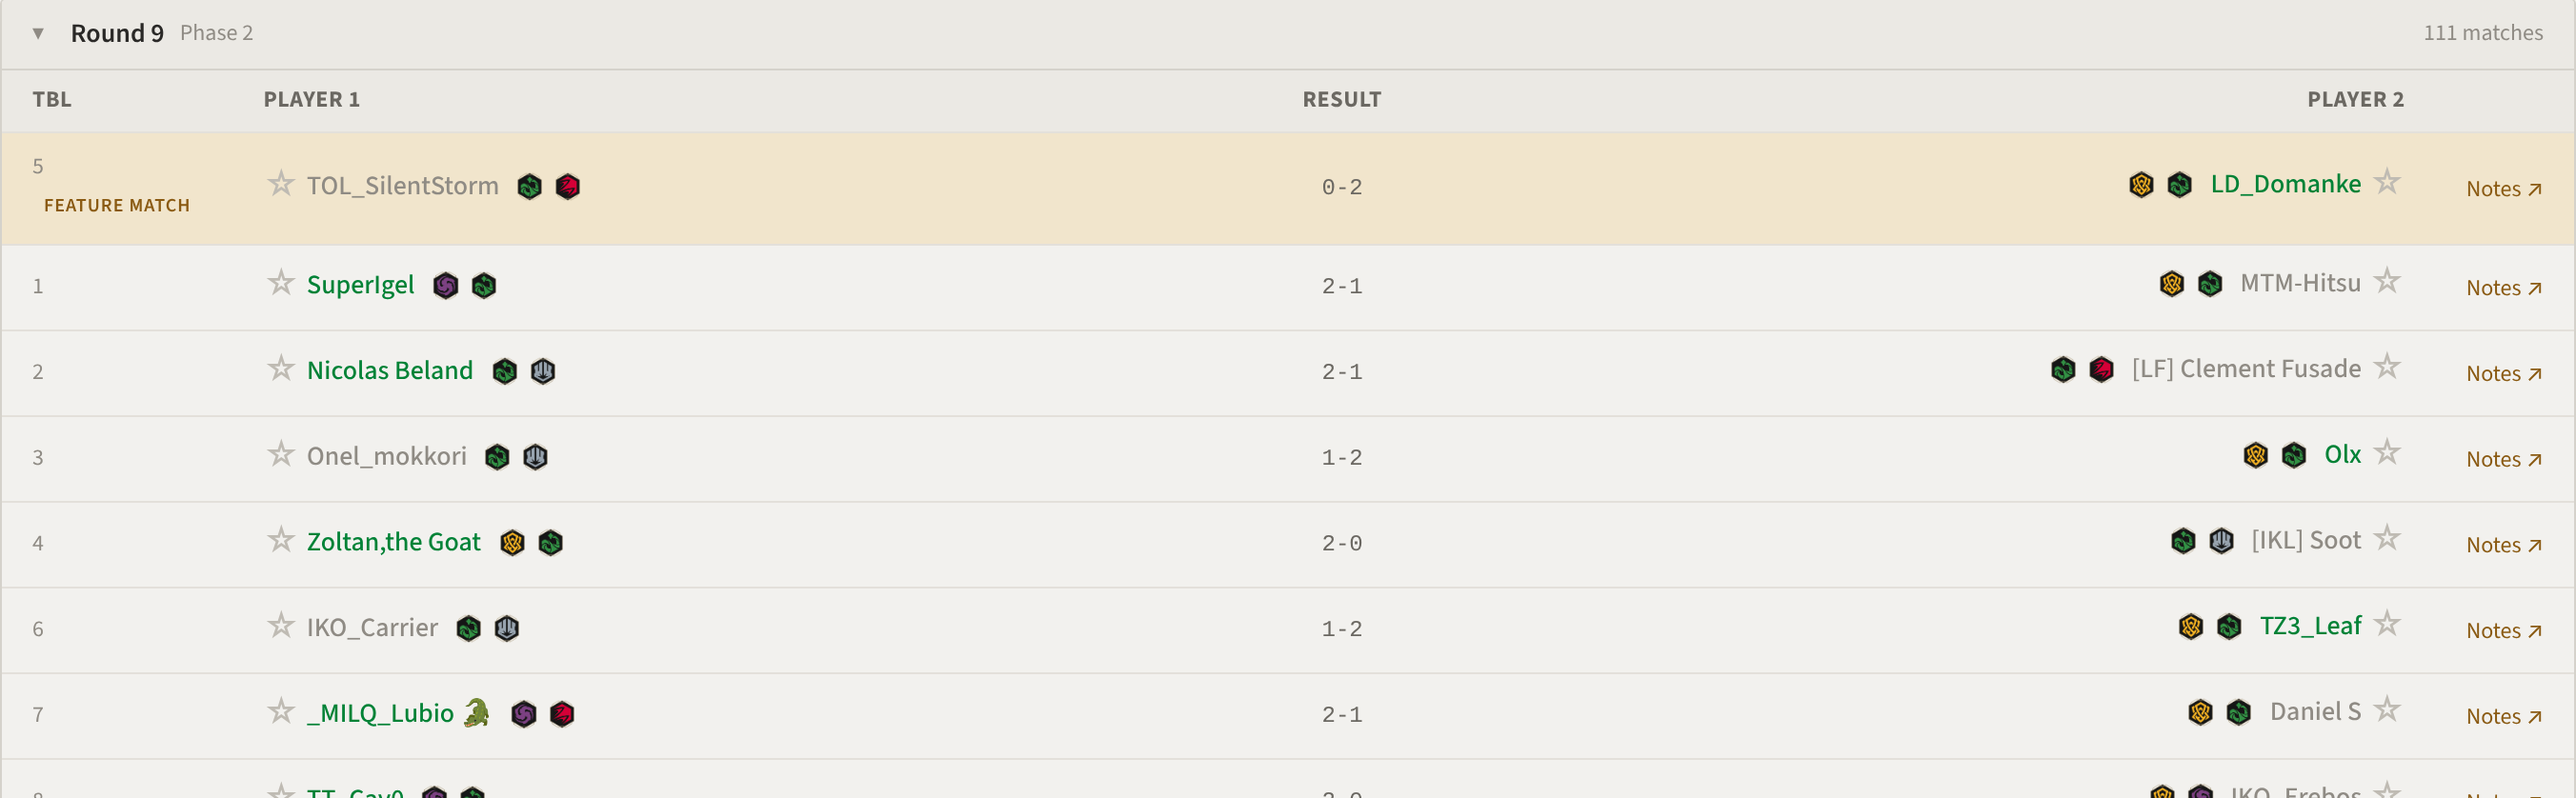
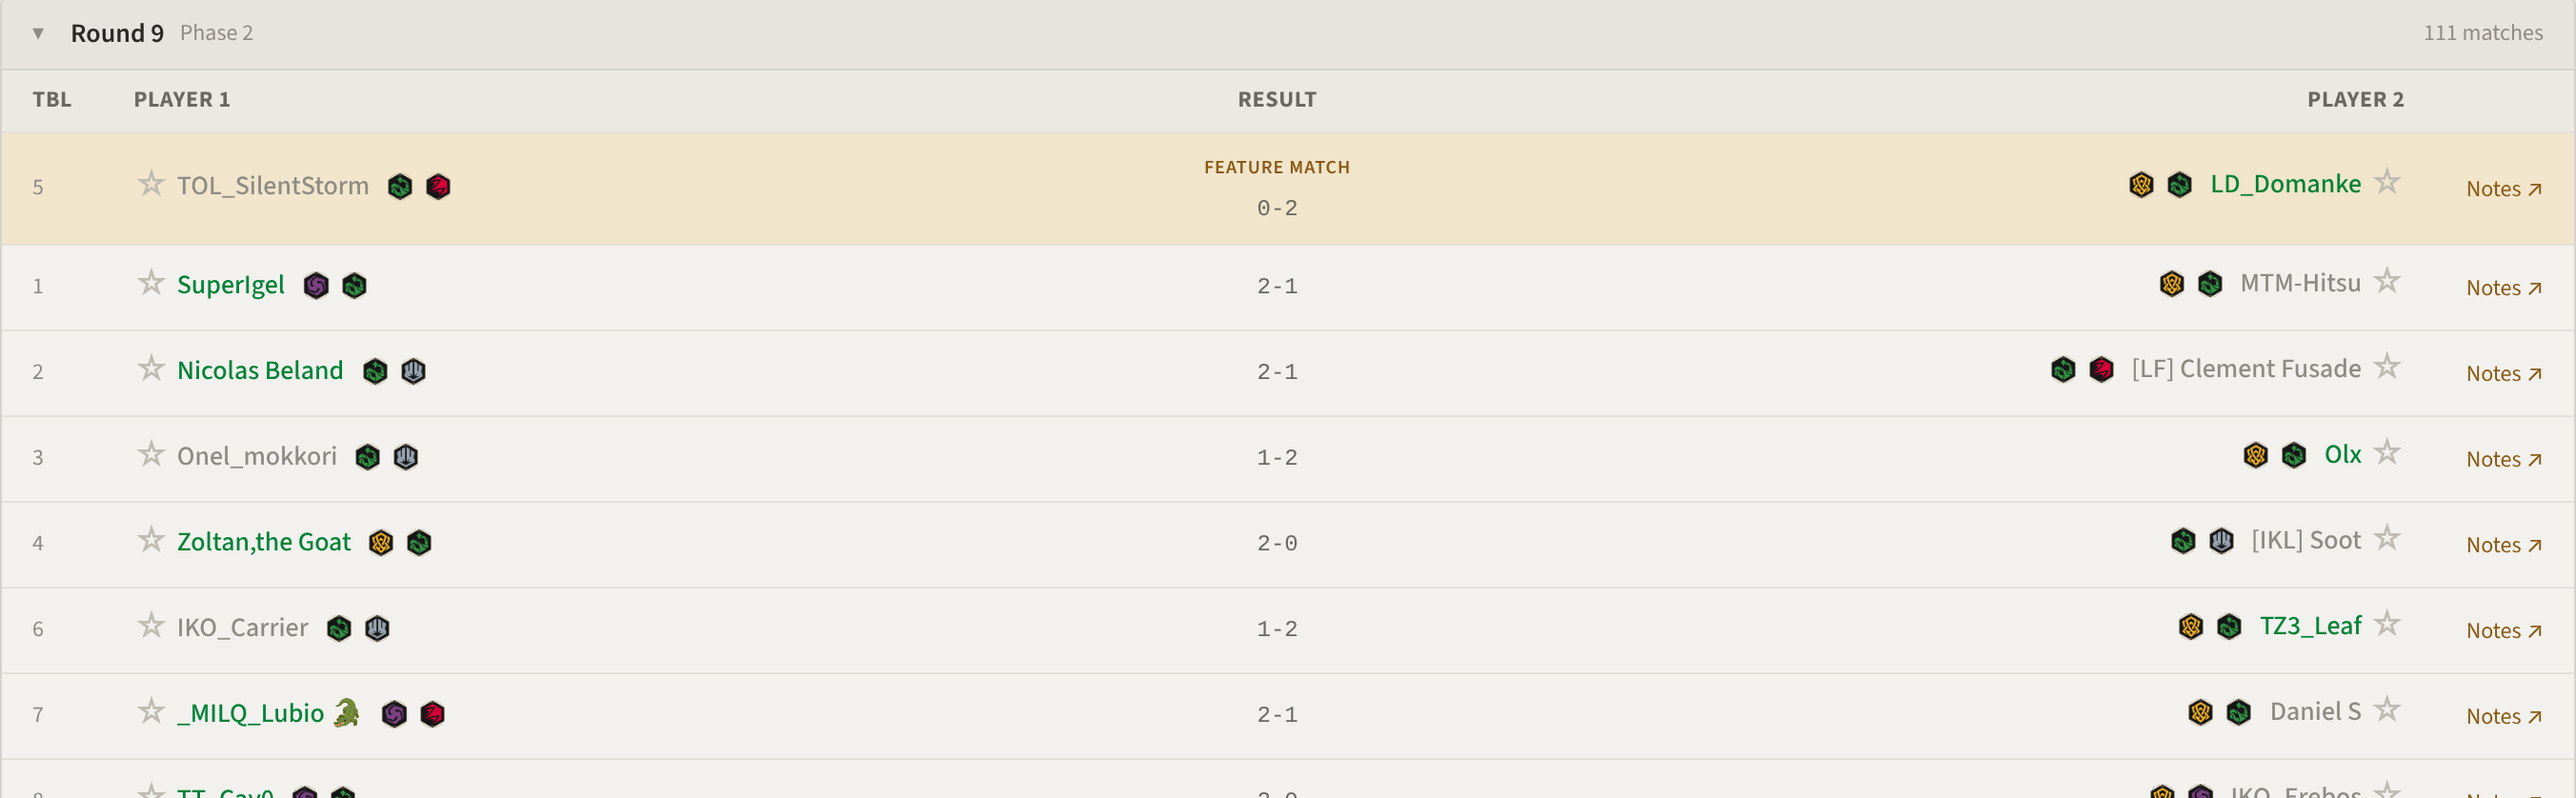
Tournament Lookup: move the Feature Match label to the result column
Claude-Session: https://claude.ai/code/session_01TJQgsyVo5haV6mX212Vauw

diff --git a/src/pages/TournamentLookupPage.jsx b/src/pages/TournamentLookupPage.jsx
@@ -436,12 +436,7 @@ function MatchesTab({ allMatches, matchesLoading, onSelectPairing, notesPathFor,
                             }
                             className={`border-t border-gray-100${match.is_feature_match ? ' bg-forge-soft' : ''}${clickable ? ' hover:bg-gray-50 cursor-pointer' : ''}`}
                           >
-                            <td className="px-4 py-2.5 text-gray-400 text-xs">
-                              <div className="flex flex-col items-start gap-1">
-                                {match.table_number ?? '—'}
-                                {match.is_feature_match && <Badge className="whitespace-nowrap">Feature Match</Badge>}
-                              </div>
-                            </td>
+                            <td className="px-4 py-2.5 text-gray-400 text-xs">{match.table_number ?? '—'}</td>
                             <td className="px-4 py-2.5">
                               <span className={`inline-flex items-center gap-1 font-medium ${p1Won ? 'text-green-700' : isDraw ? 'text-gray-700' : 'text-gray-400'}`}>
                                 {p1 && toggleFavorite && (
@@ -459,6 +454,11 @@ function MatchesTab({ allMatches, matchesLoading, onSelectPairing, notesPathFor,
                               </span>
                             </td>
                             <td className="px-4 py-2.5 text-center font-mono text-xs text-gray-500">
+                              {match.is_feature_match && (
+                                <div className="mb-1">
+                                  <Badge className="whitespace-nowrap font-sans">Feature Match</Badge>
+                                </div>
+                              )}
                               {isRivalry && (
                                 <span title="These players have met before" className="mr-1">🔁</span>
                               )}
